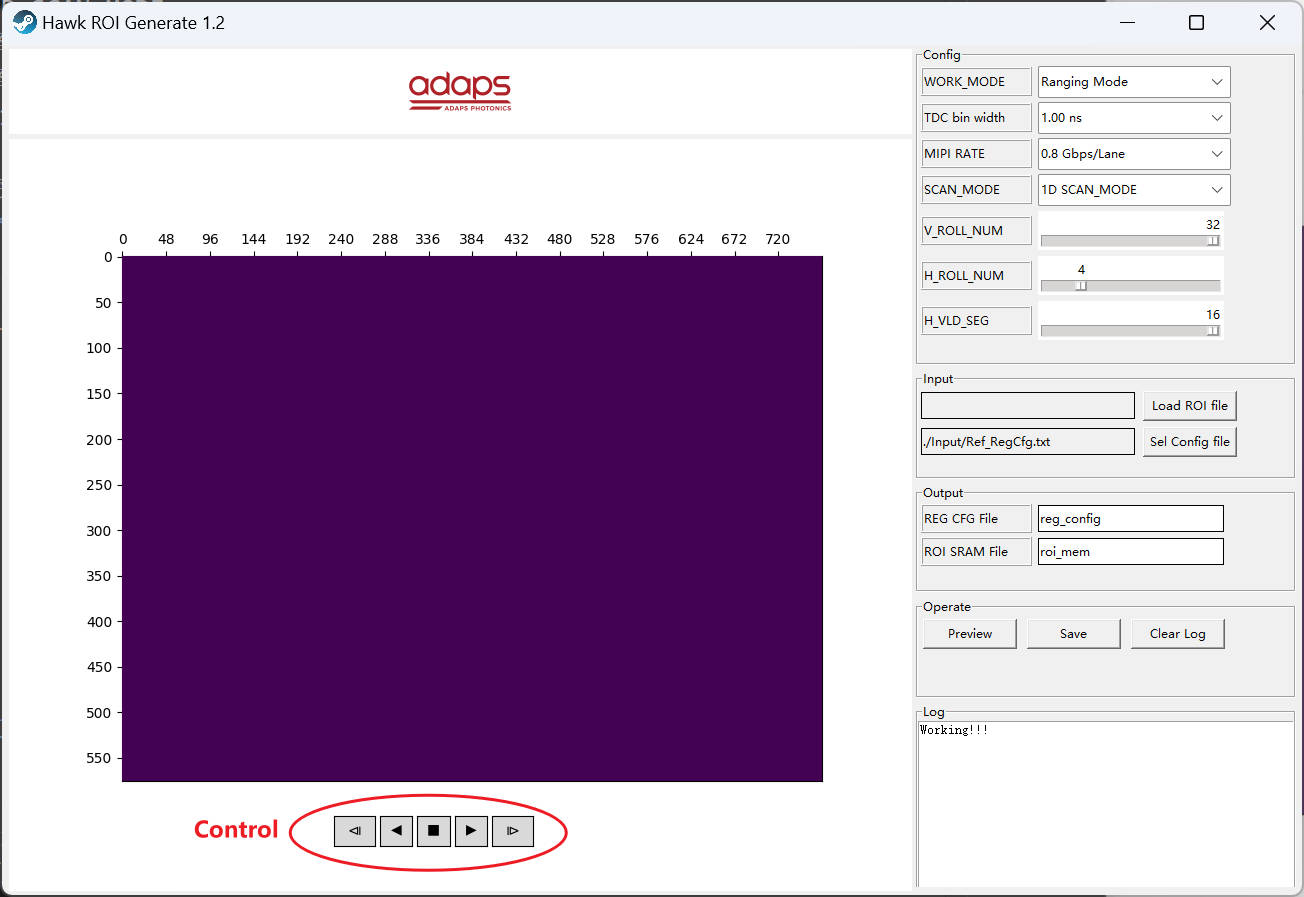
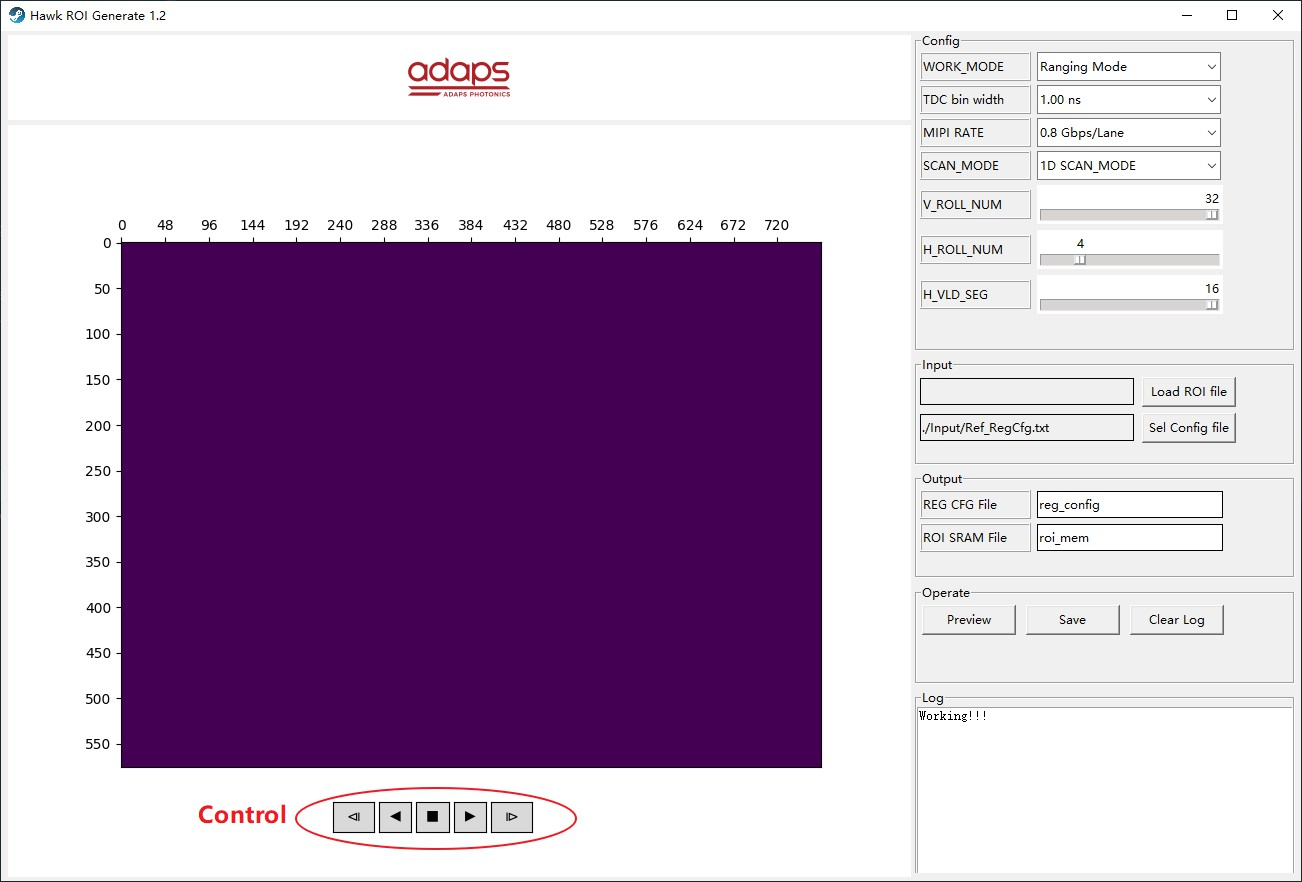
更新GUI文件，支持Nuitka打包

diff --git a/Hawk/HawkGUI/Doc/README.html b/Hawk/HawkGUI/Doc/README.html
@@ -371,33 +371,53 @@ code {
 <li><a href="#2-%E8%BD%AF%E4%BB%B6%E4%BB%8B%E7%BB%8D">2. 软件介绍</a></li>
 <li><a href="#3-%E4%BD%BF%E7%94%A8%E6%96%B9%E6%B3%95">3. 使用方法</a></li>
 <li><a href="#4-%E6%A0%87%E5%AE%9A%E6%96%87%E4%BB%B6%E6%A0%BC%E5%BC%8F%E8%AF%B4%E6%98%8E">4. 标定文件格式说明</a></li>
-<li><a href="#5-%E9%85%8D%E7%BD%AE%E6%A0%A1%E9%AA%8C">5. 配置校验</a></li>
-<li><a href="#6-%E5%85%B6%E4%BB%96">6. 其他</a></li>
+<li><a href="#5-roi%E9%85%8D%E7%BD%AE%E6%A0%A1%E9%AA%8C">5. ROI配置校验</a></li>
+<li><a href="#6-%E5%AF%84%E5%AD%98%E5%99%A8%E9%85%8D%E7%BD%AE%E7%94%9F%E6%88%90%E5%8A%9F%E8%83%BD%E8%AF%B4%E6%98%8E">6. 寄存器配置生成功能说明</a></li>
 </ul>
 <h1 id="2-%E8%BD%AF%E4%BB%B6%E4%BB%8B%E7%BB%8D">2. 软件介绍</h1>
 <ol>
 <li>软件界面如下<br>
 <img src="figs/Software.jpg" alt="软件界面" title="Software.jpg"></li>
-<li>元素①:
+<li>Config:
 <ol>
-<li>OutPut File Name: 文件保存时的文件名称</li>
-<li>SCAN_MODE: 下拉选择，1D SCAN_MODE、2D SCAN_MODE</li>
+<li>WORK_MODE: 下拉选择，Histogram Mode / Echo Mode / Ranging Mode / Gray Scale Mode</li>
+<li>TDC bin width：下拉选择，0.75 / 1.00 / 1.25 / 1.50 / 2.00 / 2.50 ns</li>
+<li>MIPI RATE：下拉选择，0.8 / 1.0 / 1.2 / 1.5 Gbps/Lane</li>
+<li>SCAN_MODE: 下拉选择，1D SCAN_MODE / 2D SCAN_MODE</li>
 <li>V_ROLL_NUM: 垂直方向Rolling次数，选择范围: 1~32次</li>
 <li>H_ROLL_NUM: 水平方向ROlling次数，选择范围: 1~16次</li>
 <li>H_VLD_SEG: 每次Rolling打开的段数, 1~16段</li>
 </ol>
 </li>
-<li>元素②：
+<li>Input：
 <ol>
-<li>标定文件选择窗口, 默认打开./Input文件夹</li>
-<li>标定文件格式请参看<a href="#4-%E6%A0%87%E5%AE%9A%E6%96%87%E4%BB%B6%E6%A0%BC%E5%BC%8F%E8%AF%B4%E6%98%8E"><strong>标定文件格式说明</strong></a></li>
+<li>Load ROI file：标定文件选择窗口, 默认打开./Input文件夹
+<blockquote>
+<p>标定文件格式请参看<a href="#4-%E6%A0%87%E5%AE%9A%E6%96%87%E4%BB%B6%E6%A0%BC%E5%BC%8F%E8%AF%B4%E6%98%8E"><strong>标定文件格式说明</strong></a></p>
+</blockquote>
+</li>
+<li>Sel Config file：基准配置文件选择窗口
+<blockquote>
+<p>程序会根据选择的基准配置文件以及最新的配置信息，自动生成新的寄存器配置脚本<br>
+寄存器配置脚本支持的功能请参看<a href="#6-%E5%AF%84%E5%AD%98%E5%99%A8%E9%85%8D%E7%BD%AE%E7%94%9F%E6%88%90%E5%8A%9F%E8%83%BD%E8%AF%B4%E6%98%8E"><strong>寄存器配置生成功能说明</strong></a></p>
+</blockquote>
+</li>
 </ol>
 </li>
-<li>元素③、④、⑤分别为预览、保存、日志清除按钮</li>
-<li>元素⑥：<br>
-<img src="figs/PlayerCtrl.jpg" alt="软件界面" title="PlayerCtrl.jpg">
+<li>Output:
 <ol>
-<li>从左到右，按钮功能依次为：
+<li>REG CFG File：生成的寄存器配置脚本文件名</li>
+<li>ROI SRAM File：生成的ROI文件名</li>
+</ol>
+</li>
+<li>Operate:
+<ol>
+<li>操作界面分别为预览、保存、日志清除按钮，分别支持相应的功能</li>
+</ol>
+</li>
+<li>Control：<br>
+<img src="figs/PlayerCtrl.jpg" alt="软件界面" title="PlayerCtrl.jpg"><br>
+从左到右，按钮功能依次为：
 <ul>
 <li><code>预览上一帧</code></li>
 <li><code>向后连续预览</code></li>
@@ -407,16 +427,14 @@ code {
 </ul>
 </li>
 </ol>
-</li>
-</ol>
 <h1 id="3-%E4%BD%BF%E7%94%A8%E6%96%B9%E6%B3%95">3. 使用方法</h1>
 <ol>
 <li>根据需求在界面上进行相应的配置</li>
 <li>将标定文件保存在<code>./Input</code>文件夹下</li>
-<li>Load标定文件, 标定文件格式请参看<a href="#4-%E6%A0%87%E5%AE%9A%E6%96%87%E4%BB%B6%E6%A0%BC%E5%BC%8F%E8%AF%B4%E6%98%8E"><strong>标定文件格式说明</strong></a></li>
+<li>选择标定文件以及基准配置脚本, 标定文件格式请参看<a href="#4-%E6%A0%87%E5%AE%9A%E6%96%87%E4%BB%B6%E6%A0%BC%E5%BC%8F%E8%AF%B4%E6%98%8E"><strong>标定文件格式说明</strong></a></li>
 <li>点击预览, 查看Rolling效果</li>
-<li>点击保存, 程序将生成相关ROI文件, 文件保存在<code>./Output</code>路径下</li>
-<li>输出文件说明: <code>*.png</code>为整体Rolling效果展示图; <code>*.txt</code>为Hawk ROI标定信息文件<br>
+<li>点击保存, 程序将生成Hawk配置脚本以及相关ROI文件, 文件保存在<code>./Output</code>路径下</li>
+<li>输出文件说明: <code>*.png</code>为整体Rolling效果展示图; <code>*.txt</code>为<code>Hawk配置脚本</code> &amp; <code>ROI标定信息</code>文件<br>
 <em>ps: 点击保存时，保存的ROI文件为左侧预览窗口的Rolling信息。因此, 修改相关配置或重新加载标定文件后, 请先点击预览, 再点击保存</em></li>
 </ol>
 <h1 id="4-%E6%A0%87%E5%AE%9A%E6%96%87%E4%BB%B6%E6%A0%BC%E5%BC%8F%E8%AF%B4%E6%98%8E">4. 标定文件格式说明</h1>
@@ -449,7 +467,7 @@ code {
 <p>代码注释：可使用双斜杠(<code>//</code>)在行尾添加注释或整行注释</p>
 </li>
 </ol>
-<h1 id="5-%E9%85%8D%E7%BD%AE%E6%A0%A1%E9%AA%8C">5. 配置校验</h1>
+<h1 id="5-roi%E9%85%8D%E7%BD%AE%E6%A0%A1%E9%AA%8C">5. ROI配置校验</h1>
 <p>主要包含以下校验：</p>
 <ol>
 <li>
@@ -475,10 +493,16 @@ code {
 <p>坐标与配置信息综合合理性校验, 如: 标定信息为<code>(48, 0)</code>, 配置<code>SCAN_MODE=1D SCAN_MODE, H_VLD_SEG=15</code>时, 由于 <code>48 + H_VLD_SEG*48 &gt; 768</code>, 会导致Rolling超边界, 预览失败</p>
 </li>
 </ol>
-<h1 id="6-%E5%85%B6%E4%BB%96">6. 其他</h1>
-<ul>
-<li>Nothing</li>
-</ul>
+<h1 id="6-%E5%AF%84%E5%AD%98%E5%99%A8%E9%85%8D%E7%BD%AE%E7%94%9F%E6%88%90%E5%8A%9F%E8%83%BD%E8%AF%B4%E6%98%8E">6. 寄存器配置生成功能说明</h1>
+<ol>
+<li>系统时钟330、250、200M及分频相关寄存器配置</li>
+<li>Upsampling 寄存器配置</li>
+<li>MIPI 速率 0.8、1.0、1.2、1.5 Gbps/Lane 相关寄存器配置</li>
+<li>MIPI_PKTDLY 自适应配置</li>
+<li>ROI SRAM Block_write 配置</li>
+<li>MIPI WC &amp; FLNR配置</li>
+<li>V_ROLL_NUM、H_ROLL_NUM、H_VLD_SEG、WOKR_MODE、SCAN_MODE等寄存器配置</li>
+</ol>
 
 </body>
 </html>

diff --git a/Hawk/HawkGUI/ROIGenerate_GUI.py b/Hawk/HawkGUI/ROIGenerate_GUI.py
@@ -1,20 +1,21 @@
+import tkinter
+
 import re
-# import tkinter
 from tkinter import filedialog
 from tkinter import ttk
 
 import matplotlib.pyplot as plt
 import numpy as np
 from PIL import ImageTk, Image
-from matplotlib.backends.backend_tkagg import (FigureCanvasTkAgg)
+from matplotlib.backends.backend_tkagg import FigureCanvasTkAgg
 from matplotlib.ticker import MultipleLocator
 
 from Hawk.MSKU import MskuPubMethod
-from Hawk.HawkGUI import Player
 from Hawk.MSKU.MSKU_Cali import ROICalibration
 from Hawk.MSKU.MSKU_GEN import ROIGenerate
-from SelfDefinedPackge import PubMethod
 from Hawk.Common import HawkPubMethod
+from SelfDefinedPackge import PubMethod
+from Hawk.HawkGUI import Player
 from Hawk.HawkGUI.HawkComponentStyle import *
 
 
@@ -218,9 +219,10 @@ def msku_gui():
     frame_roi_img = tkinter.Frame(window)  # 左下添加 frame 控件用于展示动图
     frame_roi_cfg = tkinter.Frame(window)  # 右侧添加 frame 控件用于放置 配置、按钮、日志打印等内容
 
-    # --------------------- company_icon 设置 -------------------
+    # --------------------- company_图片 设置 -------------------
     imag = Image.open(r'.file/company_icon.png')
     photo = ImageTk.PhotoImage(imag)
+    # photo = tkinter.PhotoImage(r'.file/company_icon.png')
     tkinter.Label(company_icons, image=photo, background='white').pack(fill=tkinter.BOTH)
 
     # ----------------- frame_roi_cfg 增加多个控件，显示不同交互内容 -------------------
@@ -480,17 +482,24 @@ def msku_gui():
         nonlocal vcoor
         # ------------------ window -> frame -----------------
         vcoor = 0.005
-        company_icons.place(relx=0.005, rely=0.005, relwidth=0.695, relheight=set_next_cmp_coor(0.100))
-        frame_roi_img.place(relx=0.005, rely=0.110, relwidth=0.695, relheight=set_next_cmp_coor(0.885))
-        frame_roi_cfg.place(relx=0.700, rely=0.000, relwidth=0.295, relheight=set_next_cmp_coor(0.990))
-
+        company_icons.place(relx=0.005, rely=vcoor, relwidth=0.695, relheight=set_next_cmp_coor(0.100))
+        frame_roi_img.place(relx=0.005, rely=vcoor, relwidth=0.695, relheight=set_next_cmp_coor(0.885))
+        frame_roi_cfg.place(relx=0.700, rely=vcoor, relwidth=0.295, relheight=set_next_cmp_coor(0.990))
+        company_icons.place(relx=0.005, rely=0.005, relwidth=0.695, relheight=0.100)
+        frame_roi_img.place(relx=0.005, rely=0.110, relwidth=0.695, relheight=0.885)
+        frame_roi_cfg.place(relx=0.700, rely=0.000, relwidth=0.295, relheight=0.990)
         # --------------------- frame_roi_cfg -------------------
-        vcoor = 0.000
-        configs_frame.place(relx=0.010, rely=vcoor, relwidth=0.990, relheight=set_next_cmp_coor(0.380))
-        f_input_frame.place(relx=0.010, rely=vcoor, relwidth=0.990, relheight=set_next_cmp_coor(0.130))
-        output__frame.place(relx=0.010, rely=vcoor, relwidth=0.990, relheight=set_next_cmp_coor(0.130))
-        operate_frame.place(relx=0.010, rely=vcoor, relwidth=0.990, relheight=set_next_cmp_coor(0.120))
-        logsout_frame.place(relx=0.010, rely=vcoor, relwidth=0.990, relheight=set_next_cmp_coor(0.240))
+        # vcoor = 0.000
+        # configs_frame.place(relx=0.010, rely=vcoor, relwidth=0.990, relheight=set_next_cmp_coor(0.380))
+        # f_input_frame.place(relx=0.010, rely=vcoor, relwidth=0.990, relheight=set_next_cmp_coor(0.130))
+        # output__frame.place(relx=0.010, rely=vcoor, relwidth=0.990, relheight=set_next_cmp_coor(0.130))
+        # operate_frame.place(relx=0.010, rely=vcoor, relwidth=0.990, relheight=set_next_cmp_coor(0.120))
+        # logsout_frame.place(relx=0.010, rely=vcoor, relwidth=0.990, relheight=set_next_cmp_coor(0.240))
+        configs_frame.place(relx=0.010, rely=0.000, relwidth=0.990, relheight=0.380)
+        f_input_frame.place(relx=0.010, rely=0.385, relwidth=0.990, relheight=0.130)
+        output__frame.place(relx=0.010, rely=0.520, relwidth=0.990, relheight=0.130)
+        operate_frame.place(relx=0.010, rely=0.655, relwidth=0.990, relheight=0.120)
+        logsout_frame.place(relx=0.010, rely=0.780, relwidth=0.990, relheight=0.240)
 
         # -------------- configs_frame -> Label -----------------
         # 放置输入框，并设置位置

diff --git a/Hawk/HawkGUI/Doc/README.md b/Hawk/HawkGUI/Doc/README.md
@@ -6,24 +6,24 @@
 - [5. ROI配置校验](#5-roi配置校验)
 - [6. 寄存器配置生成功能说明](#6-寄存器配置生成功能说明)
 
-# 2. 软件介绍
+# 2. 软件介绍  
 1. 软件界面如下  
 ![软件界面](figs/Software.jpg "Software.jpg")
-2. Config: 
+1. Config: 
    1. WORK_MODE: 下拉选择，Histogram Mode / Echo Mode / Ranging Mode / Gray Scale Mode 
    2. TDC bin width：下拉选择，0.75 / 1.00 / 1.25 / 1.50 / 2.00 / 2.50 ns
-   2. MIPI RATE：下拉选择，0.8 / 1.0 / 1.2 / 1.5 Gbps/Lane
-   2. SCAN_MODE: 下拉选择，1D SCAN_MODE / 2D SCAN_MODE
-   3. V_ROLL_NUM: 垂直方向Rolling次数，选择范围: 1~32次
-   4. H_ROLL_NUM: 水平方向ROlling次数，选择范围: 1~16次
-   5. H_VLD_SEG: 每次Rolling打开的段数, 1~16段
-3. Input：
+   3. MIPI RATE：下拉选择，0.8 / 1.0 / 1.2 / 1.5 Gbps/Lane
+   4. SCAN_MODE: 下拉选择，1D SCAN_MODE / 2D SCAN_MODE
+   5. V_ROLL_NUM: 垂直方向Rolling次数，选择范围: 1~32次
+   6. H_ROLL_NUM: 水平方向ROlling次数，选择范围: 1~16次
+   7. H_VLD_SEG: 每次Rolling打开的段数, 1~16段
+2. Input：
    1. Load ROI file：标定文件选择窗口, 默认打开./Input文件夹  
       > 标定文件格式请参看[**标定文件格式说明**](#4-标定文件格式说明)
-   3. Sel Config file：基准配置文件选择窗口
+   2. Sel Config file：基准配置文件选择窗口
       > 程序会根据选择的基准配置文件以及最新的配置信息，自动生成新的寄存器配置脚本  
-      > 寄存器配置脚本支持的功能请参看[**生成寄存器功能说明**](#6-寄存器配置生成功能说明)
-4. Output:
+      > 寄存器配置脚本支持的功能请参看[**寄存器配置生成功能说明**](#6-寄存器配置生成功能说明)
+3. Output:
    1. REG CFG File：生成的寄存器配置脚本文件名
    2. ROI SRAM File：生成的ROI文件名
 4. Operate:
@@ -82,6 +82,6 @@
 2. Upsampling 寄存器配置
 3. MIPI 速率 0.8、1.0、1.2、1.5 Gbps/Lane 相关寄存器配置
 4. MIPI_PKTDLY 自适应配置
-5. I2C_block_write 配置
-6. MIPI  WC & FLNR配置
+5. ROI SRAM Block_write 配置
+6. MIPI WC & FLNR配置
 7. V_ROLL_NUM、H_ROLL_NUM、H_VLD_SEG、WOKR_MODE、SCAN_MODE等寄存器配置
